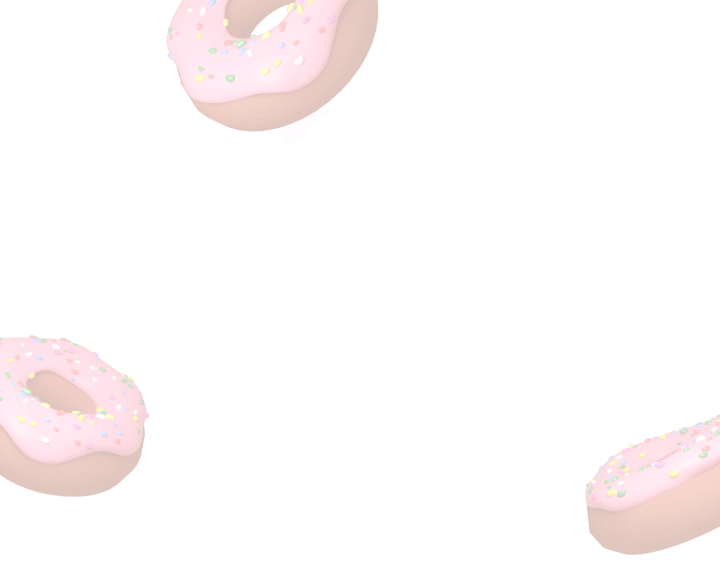
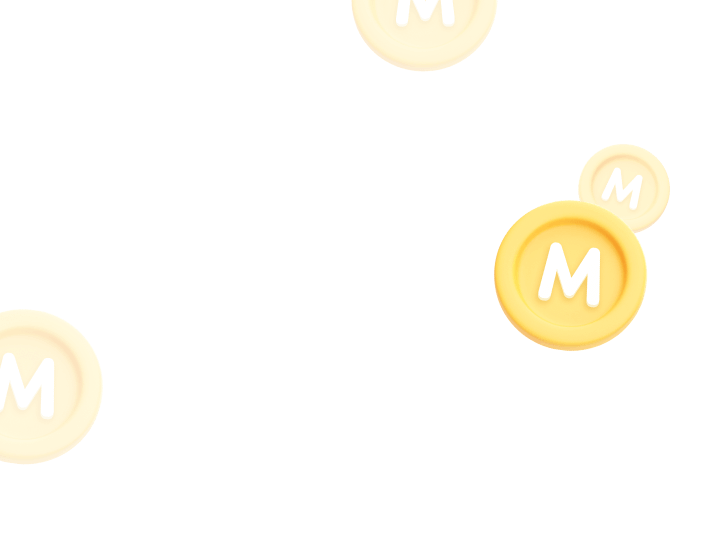
준법문구변경관련

diff --git a/html/global/HMN/HMN_202.html b/html/global/HMN/HMN_202.html
@@ -33,11 +33,11 @@
             <p class="txt_sub_2">트래블로그 서비스를 신청하셨네요!</p>
             <p class="tit_sub">환전한 외화를 사용하려면<br>트래블로그 체크카드가<br>꼭 필요해요.</p><!-- 22.08.10 문구변경 -->
             <!-- // 22.06.14 문구변경 -->
-            <!-- 22.06.17 문구추가 -->
-            <div class="wrap_btn_center">
+            <!-- 22.08.10 삭제 / 22.06.17 문구추가 -->
+            <!-- <div class="wrap_btn_center">
               <button type="button" class="btn_txt txt_point_1">3일간 보지 않기</button>
-            </div>
-            <!-- // 22.06.17 문구추가 -->
+            </div> -->
+            <!-- // 22.08.10 삭제 / 22.06.17 문구추가 -->
           </div>
         </div>
         <div class="section_bottom_fixed">

diff --git a/css/global/contents.css b/css/global/contents.css
@@ -1950,14 +1950,17 @@
   top: 0;
   width: 100%;
   height: 100%;
-  background: url('../../images/global/bg_hmn_201.png') no-repeat left bottom;
+  background: url('../../images/global/bg_hmn_201.png') no-repeat left top;
   background-size: 100% auto;
   pointer-events: none;
 }
 .section_cont.vdb_travlog .wrap_banner {
   padding-top: 0;
 }
-.section_cont.vdb_travlog .wrap_banner::before {
+.section_cont.vdb_travlog .wrap_banner .tit_2 {
+  margin-top: 0.7rem;
+}
+/* .section_cont.vdb_travlog .wrap_banner::before {
   content: '';
   display: inline-block;
   position: absolute;
@@ -1967,7 +1970,7 @@
   height: 26.6vw;
   background: url('../../images/hmui/img_zero_charge_2.png') no-repeat 50%;
   background-size: 100%;
-}
+} */
 .section_cont.top_narrow {
   margin-top: -5.0rem;
 }

diff --git a/html/global/VDB/VDB_002.html b/html/global/VDB/VDB_002.html
@@ -137,9 +137,6 @@
           <div class="section_cont type_narrow vdb_travlog">
             <!-- 22.08.10 문구변경 -->
             <div class="wrap_banner">
-              <p class="txt_sub_2">수수료 걱정없는 세상으로</p><!-- 22.05.31 문구변경 -->
-              <p class="tit_2">외화 충전 시 환전수수료<br>해외 가맹점 이용수수료<br>해외 ATM 인출 수수료</p><!-- 22.07.18 / 22.05.31 문구변경 -->
-              
               <p class="txt_sub_2">아직도 70%우대 받고 환전하나요?</p>
               <p class="tit_big">환율 100% 우대<small class="tit_sub">(USD, JPY, EUR, GBP)</small></p>
               <p class="tit_2">해외 이용수수료 무료</p>

diff --git a/html/global/HMN/HMN_201_1.html b/html/global/HMN/HMN_201_1.html
@@ -34,9 +34,9 @@
             <p class="txt_sub_2">아직도 70%우대 받고 환전하나요?</p>
             <p class="tit_xl txt_point_1">환율 100% 우대<small class="tit_sub">(USD, JPY, EUR, GBP)</small></p>
             <p class="tit_2">해외 이용수수료 무료</p>
-            <div class="wrap_btn_center">
+            <!-- <div class="wrap_btn_center">
               <button type="button" class="btn_txt txt_point_1">3일간 보지 않기</button>
-            </div>
+            </div> -->
             <!-- // 22.06.16 문구변경 -->
           </div>
           <!-- // 22.08.10 문구변경에 따른 마크업변경 -->

diff --git a/html/global/HMN/HMN_201_2.html b/html/global/HMN/HMN_201_2.html
@@ -34,9 +34,9 @@
             <p class="txt_sub_2">아직도 70%우대 받고 환전하나요?</p>
             <p class="tit_xl txt_point_1">환율 100% 우대<small class="tit_sub">(USD, JPY, EUR, GBP)</small></p>
             <p class="tit_2">해외 이용수수료 무료</p>
-            <div class="wrap_btn_center">
+            <!-- <div class="wrap_btn_center">
               <button type="button" class="btn_txt txt_point_1">3일간 보지 않기</button>
-            </div>
+            </div> -->
             <!-- // 22.06.16 문구변경 -->
           </div>
           <!-- // 22.08.10 -->
